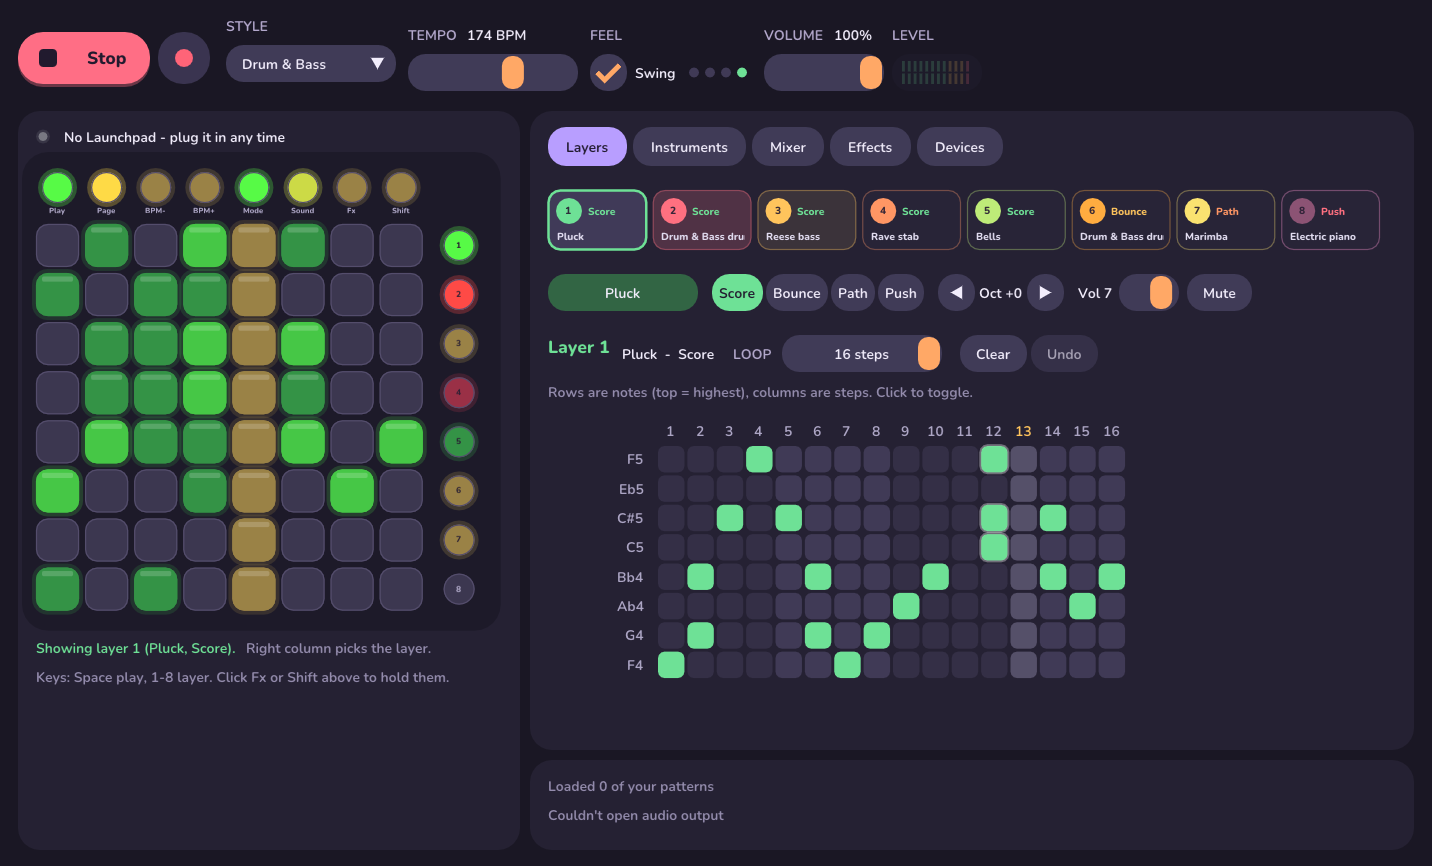
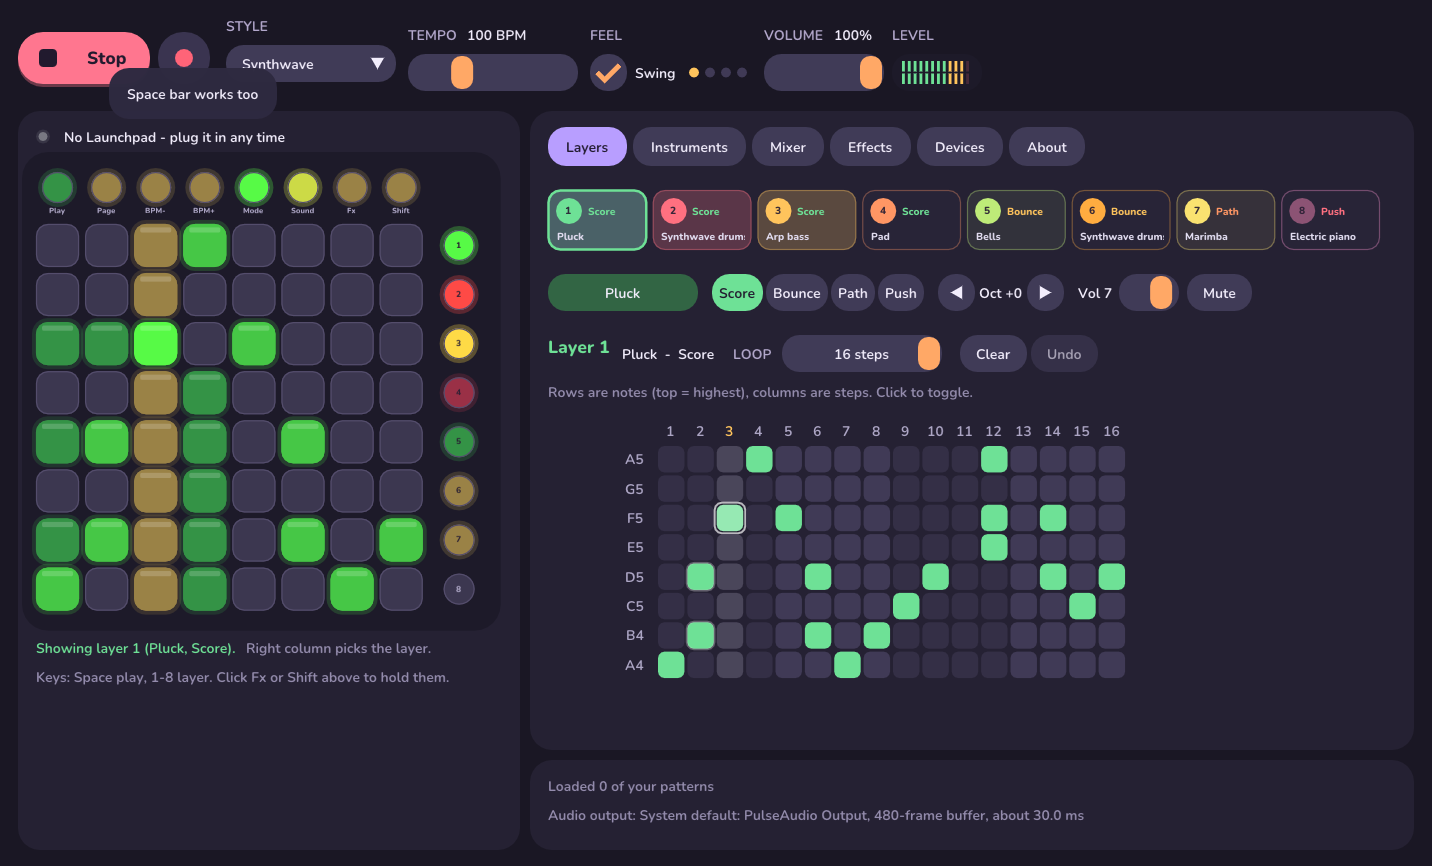
Version 1.3.0: download link, lp-tenori screenshots, per-program version info
- Version 1.3.0 (lp-tenori with its window and per-layer instruments, lights
  sent from their own thread, freeze log with call stacks)
- README: download the Windows build from the latest release; lp-tenori in the
  feature list; Bounce / Path / instrument picker screenshots; what to do if a
  window stops responding
- lp-tenori.exe's Windows version details describe lp-tenori, not the groovebox

Claude-Session: https://claude.ai/code/session_014aA8UaKCFdjehA5WM1DfZz

diff --git a/src/common.h b/src/common.h
@@ -18,7 +18,7 @@ inline double monotonicSec() {
     return duration<double>(steady_clock::now() - t0).count();
 }
 
-constexpr const char* kVersion = "1.2.0";
+constexpr const char* kVersion = "1.3.0";
 
 // What the main (UI) thread is doing right now, for the freeze watchdog.
 inline std::atomic<const char*>& uiPhase() {

diff --git a/README.md b/README.md
@@ -29,6 +29,8 @@ Launchpad remaps itself: a drum kit, a bass in the style's key, chord stabs, and
   it into the pattern.
 - **Record and export**: record to WAV, export patterns as MIDI files, sync with other gear by MIDI clock.
 - **Windows app** with an on-screen Launchpad you can click, plus a console version for macOS and Linux.
+- **lp-tenori**, a second program: a Tenori-on style sequencer with 8 layers, each with its own instrument,
+  playing in Score, Bounce, Path or Push mode ([more below](#lp-tenori-a-tenori-on-on-the-launchpad)).
 
 | | |
 |---|---|
@@ -39,8 +41,16 @@ Launchpad remaps itself: a drum kit, a bass in the style's key, chord stabs, and
 
 ## Getting it
 
-**Windows**: build it with the steps under [Build](#build) (Visual Studio 2019/2022 and CMake). The result
-is a single `LP-DNB.exe`; keep `THIRD-PARTY-NOTICES.txt` with it if you pass it on.
+**Windows**: download `LP-DNB-windows.zip` from the [latest release](https://github.com/shrieeiee/LP-DNB/releases/latest),
+unzip it anywhere and double-click `lp-dnb.exe` (or `lp-tenori.exe`). Nothing to install. The programs aren't
+signed, so the first time Windows may say "Windows protected your PC": click **More info**, then **Run anyway**.
+
+Or build it yourself with the steps under [Build](#build) (Visual Studio 2019/2022 and CMake). Keep
+`THIRD-PARTY-NOTICES.txt` with the programs if you pass them on.
+
+If a window ever stops responding, wait ten seconds and look in `%APPDATA%\LP-DNB` for
+`lp-dnb-freeze-log.txt` or `lp-tenori-freeze-log.txt`: it records what the program was doing (including where
+in the code), which makes it quick to fix. Please attach it to an issue.
 
 **macOS / Linux**: the same steps build the console version.
 
@@ -291,6 +301,10 @@ and sampled drums are there, and every layer can also have **its own synth** (17
 synths and the style's chord sound). Every note sends a ripple of light out across the grid in its layer's colour.
 
 ![lp-tenori on Windows](docs/lp-tenori.png)
+
+| | | |
+|---|---|---|
+| ![Bounce](docs/screenshots/tenori-bounce.png) **Bounce**: balls in flight; higher repeats slower | ![Path](docs/screenshots/tenori-path.png) **Path**: the light travels the route you draw | ![Instrument picker](docs/screenshots/tenori-picker.png) **Instrument picker**: every layer its own sound |
 
 ### The window (Windows)
 
